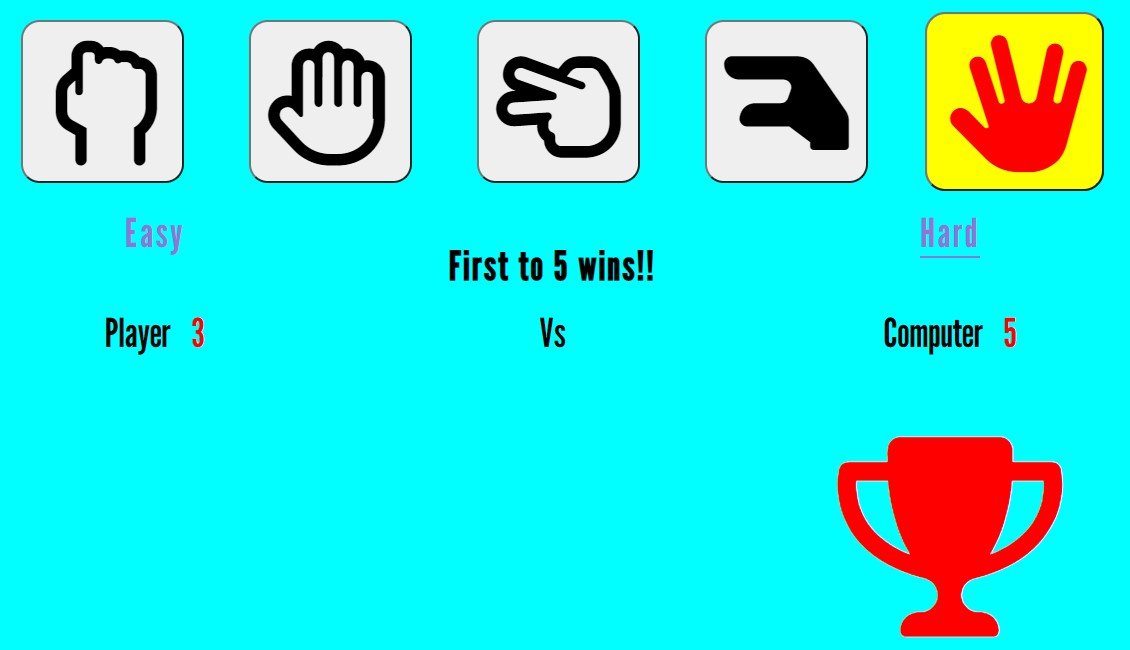
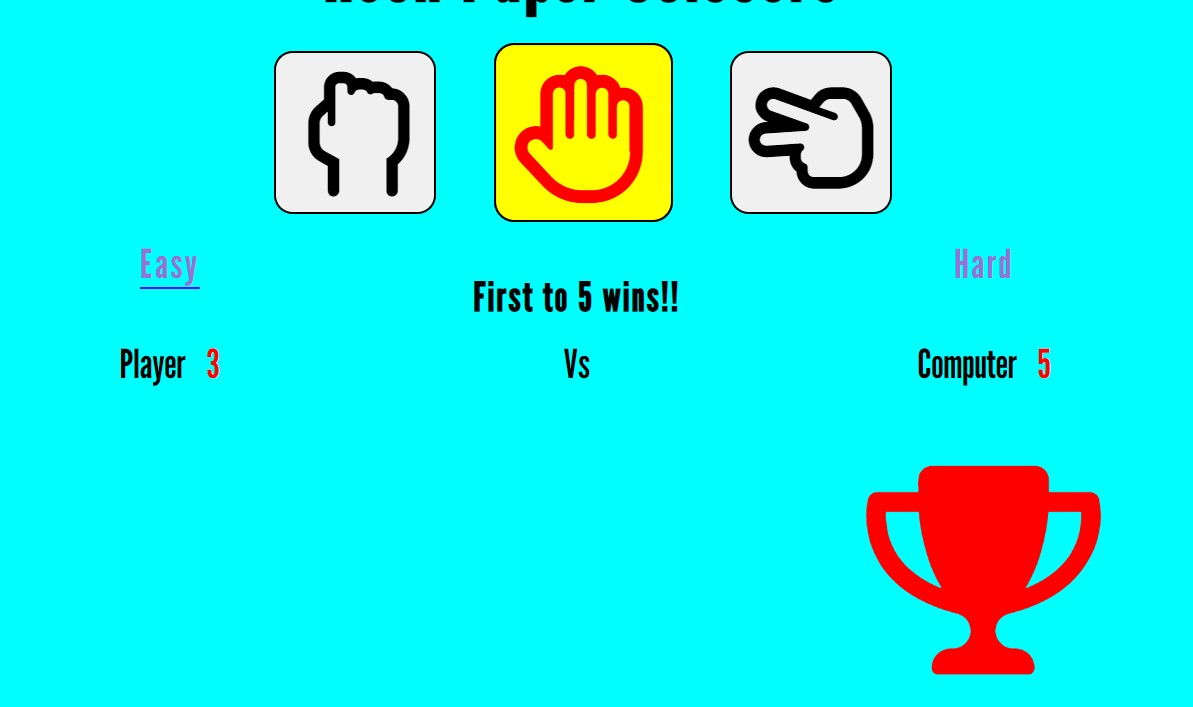
Further Readme.md edits

diff --git a/assets/CSS/style.css b/assets/CSS/style.css
@@ -55,7 +55,7 @@ a:hover {
 }
 
 .active {
-    border-bottom: 2px solid #9870d6;
+    border-bottom: 2px solid #6705fa;
 }
 
 .gameChoice {
@@ -293,7 +293,3 @@ footer {
     height: auto;
 }
 
-.center {
-    display: block;
-    text-align: center;
-}

diff --git a/README.md b/README.md
@@ -1,36 +1,36 @@
 # Rock Paper Scissors
 
-This website aims to make a play on the age old game of Rock Paper Scissors in a simple user friendly and interactive manner.
+This website aims to make a modern-play on the age-old game of Rock Paper Scissors, in a simple, user-friendly and interactive manner.
 
 There are two game-play modes, Easy and Hard.
 
 The Easy game has Rock Paper Scissors options.
 
-The Hard game introduces two additonal options, to creat Rock Paper Scissors Lizard Spock.
+The Hard game introduces two additonal options, to create Rock Paper Scissors Lizard Spock.
 
 ![image]()
 
 # Features
 ## Easy Game
-* The main image is a graphic of Rock Paper Scissors, credit to Flaticon, see credits. 
-* The title is expressed below the image in bold.
+* The main landing page is a graphic of Rock Paper Scissors. 
+* The game title of Rock Paper Scissors, noted below the image in bold.
 
 <img src="/workspace/Rock-Paper-Scissors/assets/Images/Logo and Title.jpg" width="500">
 
-* Below the heading are the game-play options in square button format. Each option highlights upon hovering of the mouse.
+* The game-play options are in button format. Each option highlights on hover for increased interactivity.
 
 <img src="/workspace/Rock-Paper-Scissors/assets/Images/highlight option.jpg" width="500">
 
 * Below the game-play buttons, you will find the game difficulty selection- 'Easy' and 'Hard'.
 * Current game selection will be underlined.
-* In between is the game winner rule of 'First to 5 wins'.
+* Basic game rule of 'First to 5 wins' noted in between both.
 
 <img src="/workspace/Rock-Paper-Scissors/assets/Images/Game play modes and game rule.jpg" width="500">
 
-* Further down the page is the game score area to the left and right hand side of the screen, displaying the 'Player' and 'Computer' scores. 
-* Once the user selects a button or option, it gets pinned underneath the Player score column. 
+* The game score areas are denoted to the left and right sides of the webpage. 
+* Once the Player selects a button, it gets pinned underneath the Player score column. 
 * The Computer selection is then randomly generated, and pinned beneath the Computer score column automatically. 
-* The computer assesses the selections, computes the outcome and pins the result to the centre column. If there is a Player or Computer win, then the respective score counter is increased. If it is a tie, both scores remain the same.
+* Both selections are assessed and the result is pinned to the centre column. If there is a Player or Computer win, then the respective score counter is increased. If it is a tie, both scores remain the same.
 
 <img src="/workspace/Rock-Paper-Scissors/assets/Images/Game Scores and results area.jpg" width="500">
 
@@ -45,7 +45,8 @@ The Hard game introduces two additonal options, to creat Rock Paper Scissors Liz
 
 <img src="/workspace/Rock-Paper-Scissors/assets/Images/Hard game options.jpg" width="500">
 
-* Game plays out the same as the Easy game mode. Once the Player selects an options it gets pinned under the Player column, the Computer choice is automatically generated and pinned below Computer column. The winner of the tie is computed and respective scores are increased if the match-up doesn't result in a tie.
+* Game plays out the same as the Easy game mode. Once the Player selects an options it gets pinned under the Player column, the Computer choice is automatically generated and pinned below Computer column. The winner of the tie is computed and respective scores are increased unless the result is a tie.
+* Player wins are noted in red, while computer wins are noted in black. Losing selections have a reduced opacity for clarity purposes.
 
 <img src="/workspace/Rock-Paper-Scissors/assets/Images/Hard game score area.jpg" width="500">
 
@@ -55,6 +56,10 @@ The Hard game introduces two additonal options, to creat Rock Paper Scissors Liz
 
 * Tested the game win scenarios to ensure the correct game logic.
 
+* Tested game play scenarios to ensure the correct champion is selected.
+
+* Tested that both the score area and counters reset for next game.
+
 # Vaildator Testing 
 
 * HTML
@@ -63,14 +68,14 @@ The Hard game introduces two additonal options, to creat Rock Paper Scissors Liz
     * Ran code though W3C CSS code validator and corrected all errors.
 
 * Lighthouse
-    * Ran the code through Lighthouse in google dev tools and changed some jpg images to web friendly images such as webp format to help increase performance.
+    * Ran the code through Lighthouse in google dev tools and added aria-labels to the button selections to increase accessibility as per the recommendations.
 
-* Easy game page 
+* Easy game Lighthouse Score
 
 <img src="/workspace/Rock-Paper-Scissors/assets/Images/index Lighthouse.jpg" width="500">
 
 
-* Hard game page
+* Hard game Lighthouse Score
 
 <img src="/workspace/Rock-Paper-Scissors/assets/Images/hard game lighthouse.jpg" width="500">
 
@@ -84,10 +89,10 @@ The Hard game introduces two additonal options, to creat Rock Paper Scissors Liz
 Link to website - 
 
 # Credit
-## Code and CSS Styling
-* Initial game play ideas were noted from Web Dev Simplified on youtube.
+
+* Initial game play ideas were developed after watching Web Dev Simplified tutorial on youtube.
 * The image animation fading on the volunteer page was taken from GeeksforGeeks website, article called 'How to create fade-in effect on page load using CSS ?'.
-* Various Html, CSS and JS code hacks taken from W3Schools and stackoverflow forums and adapted to suit.
+* Various Html, CSS and JavaScript code hacks taken from W3Schools and stackoverflow forums and adapted to suit.
 
 
 ## Images
